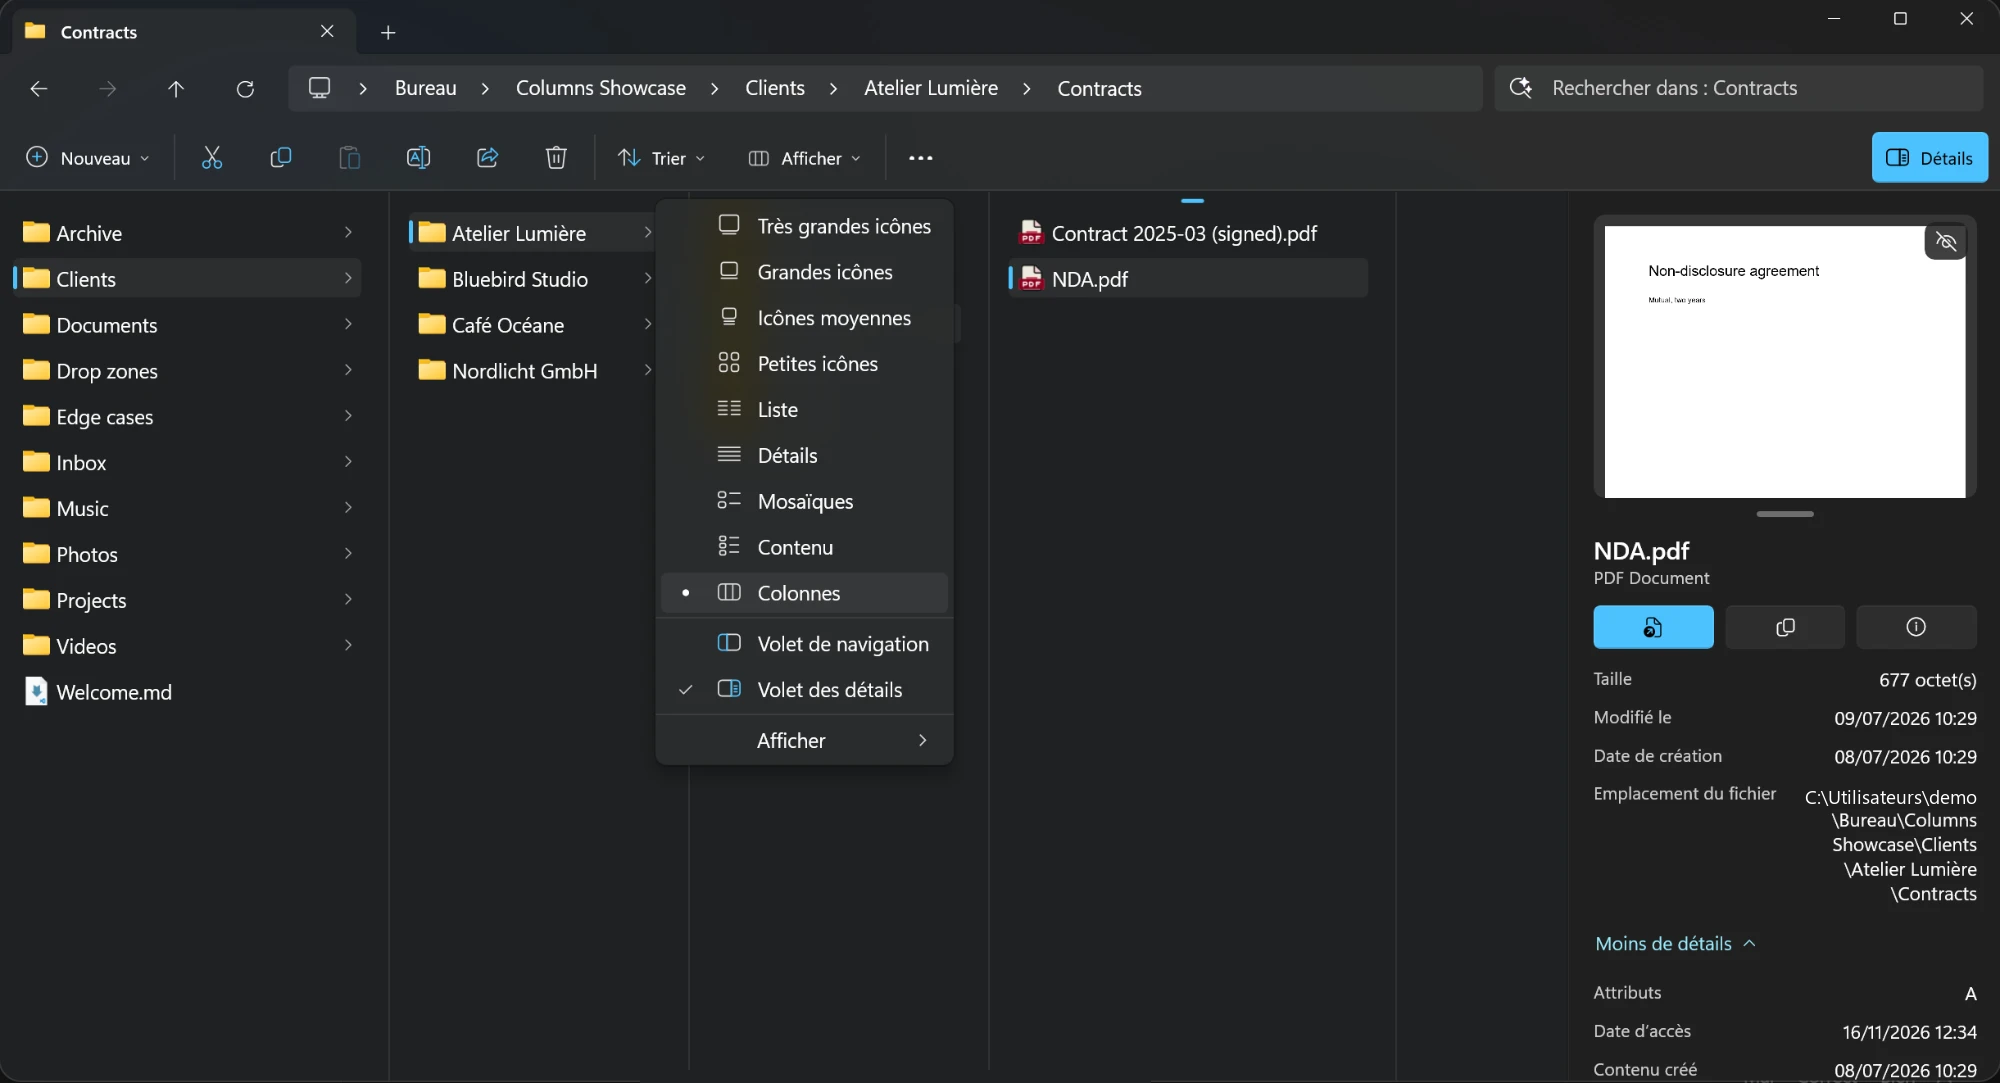
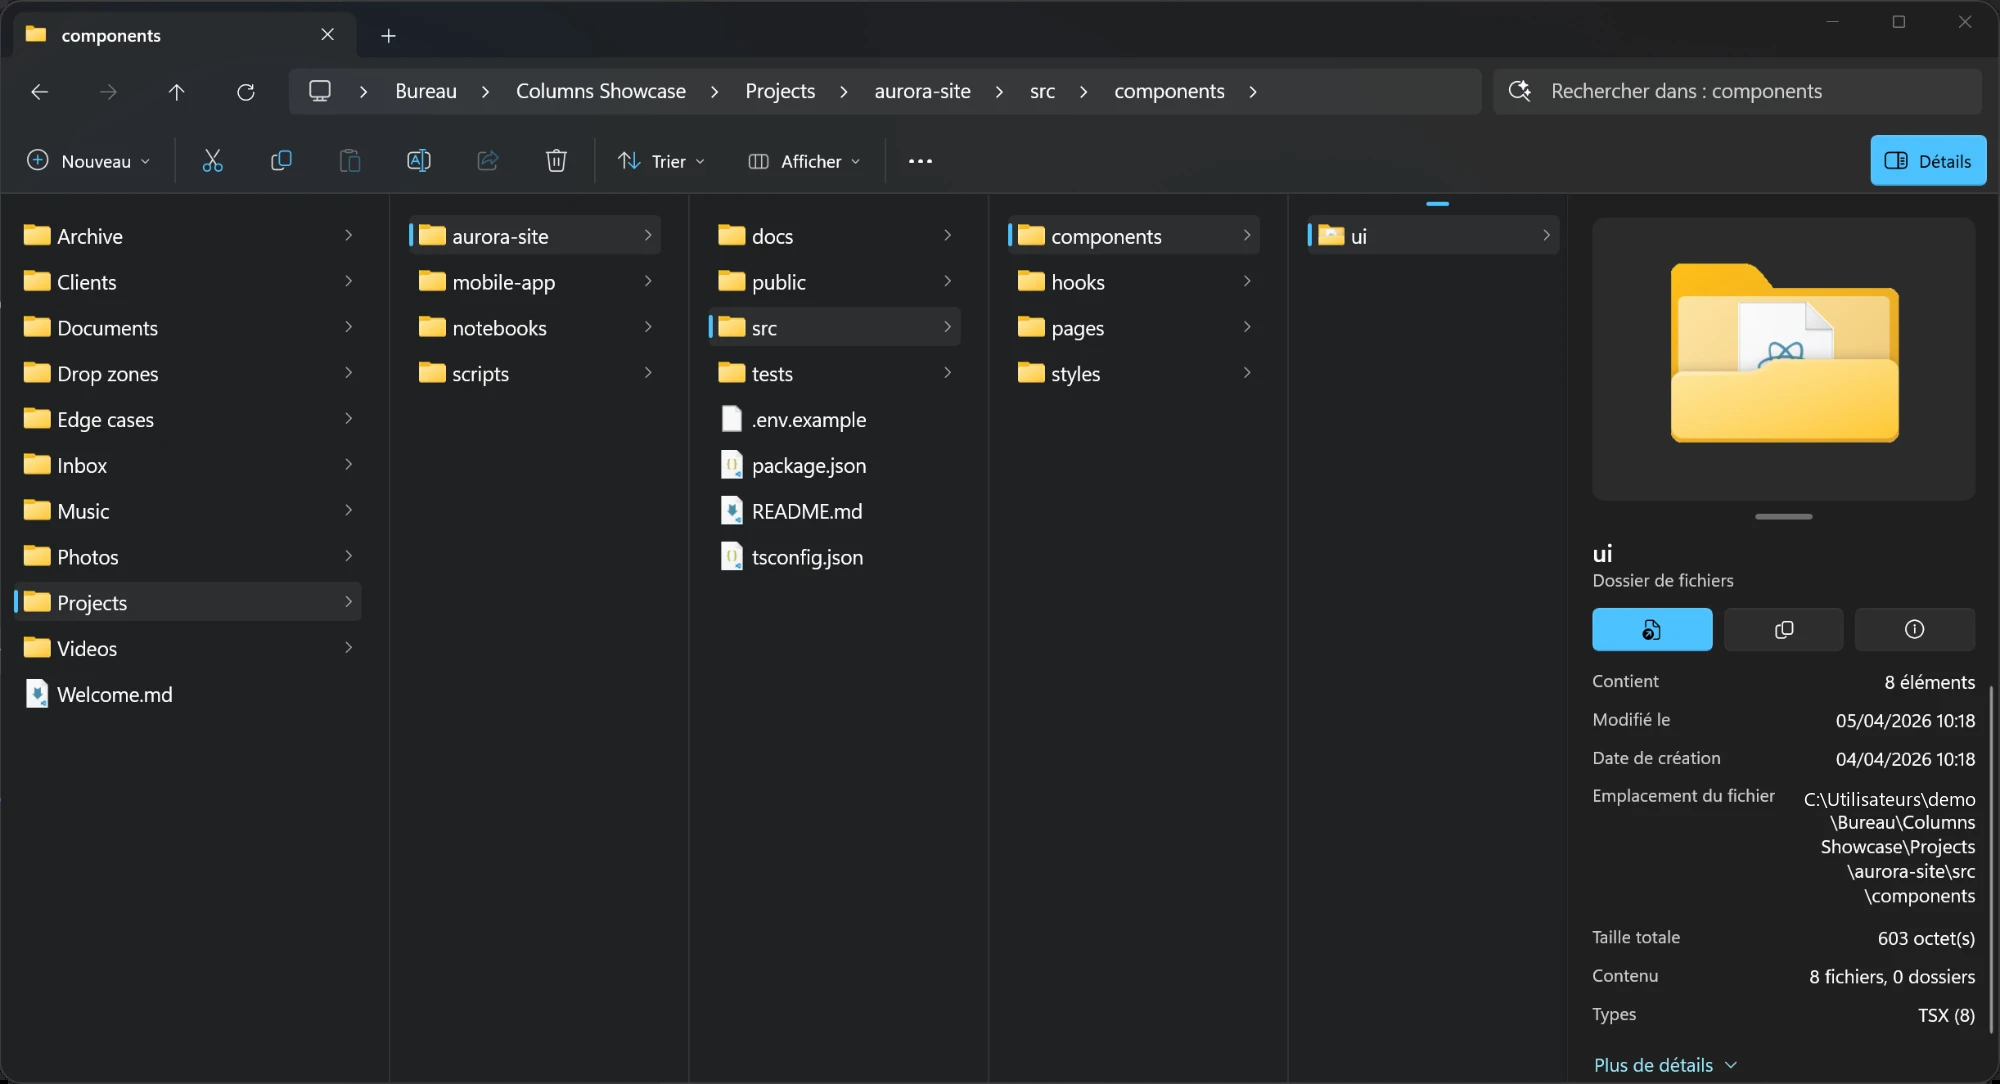
README: the first capture as the hero, a note that it works with QuickLook

diff --git a/explorer-extras/README.md b/explorer-extras/README.md
@@ -12,6 +12,8 @@ Status: public beta, in daily use by its author, not yet in the Windhawk catalog
 | **Details pane** | One pane in place of Explorer's Details and Preview panes: a real preview (PDF, text, Markdown, images, video, sound) and the details, in every view. |
 | **Settings window** | Every option in one place, applied at once, in English or French. Open it from **Extras** in the toolbar's ... menu. |
 
+**Works with QuickLook.** Explorer's own view follows the active column, so [QuickLook](https://github.com/QL-Win/QuickLook) previews the selected item as it does in any other view.
+
 More areas will come; see [`../ROADMAP.md`](../ROADMAP.md) for what is planned.
 
 ![Columns, the View menu and the details pane in File Explorer](assets/captures/hero.png)

diff --git a/explorer-extras/CHANGELOG.md b/explorer-extras/CHANGELOG.md
@@ -14,6 +14,9 @@ The first public beta. Explorer Extras is now more than the Columns layout: it h
 - Columns: folders first, alternate row shading, an accent badge on the path chevron (with an animated entrance and exit).
 - Touch: a sideways drag from a column's empty space scrolls the columns.
 
+### Works with
+- QuickLook (the Space-bar previewer) in Columns, since Explorer's own view follows the selection.
+
 ### Changed
 - A slow second click renames only in the active column, and a rename is cancelled by a click anywhere else.
 - A click in the navigation pane gives the keyboard to the first column, and Down then selects its first row.
